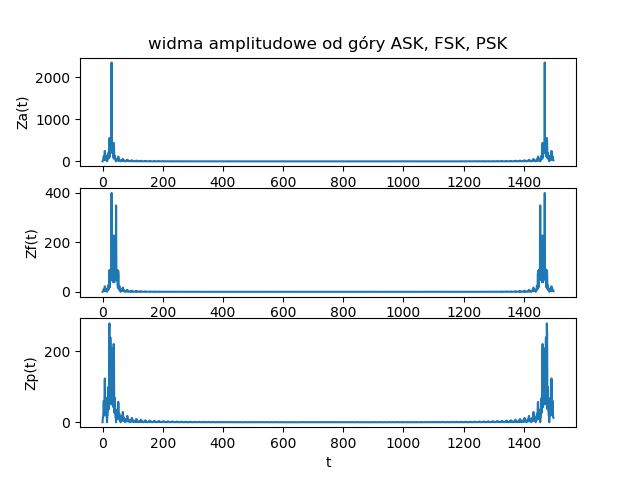
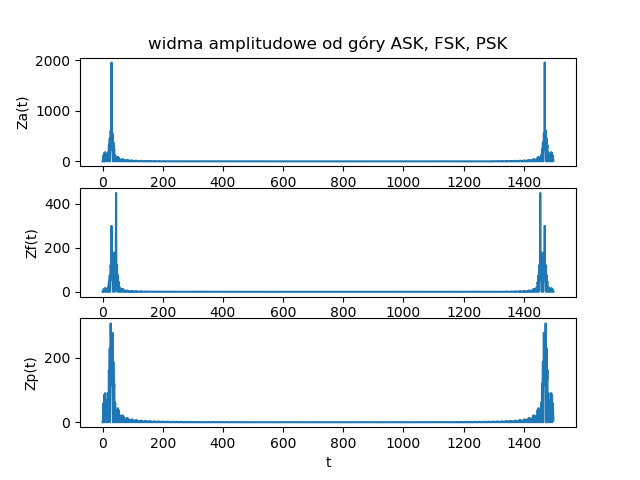
pictures

diff --git a/ptd4.py b/ptd4.py
@@ -1,0 +1,115 @@
+from matplotlib import pyplot as plt
+import numpy as np
+
+A1 = 5
+A2 = 1
+fn = 2
+fs = 100 # musi byc wieksze niz 2x fn
+M = 15 # ilosc bitow do przeslania
+tb = 1 #czas trwania bitu w sekundach
+N = 1
+
+fn1 = (N+1)/tb
+fn2 = (N+2)/tb
+
+
+data_in = np.random.randint(2, size=M) # losowe tworzenie tablicy z 0 lub 1 przy rozmiarze M podawanym wczesniej
+# dlatego wykresy są różne cały czas
+############## ASK
+za = sa =[]
+n = np.arange(M)
+d = np.arange(fs)
+for b in n:
+    for x in d:
+        if data_in[b] == 0:
+            za.append( A1 * np.sin(2 * np.pi * fn * x / fs))
+        else:
+            x = A2 * np.sin(2 * np.pi * fn * x / fs)
+            sa.append(x)
+            za.append(x)
+###################FSK
+zf = []
+sn1 = sn2 = []
+n = np.arange(M)
+d = np.arange(fs)
+for b in n:
+    for x in d:
+        if data_in[b] == 0:
+
+            x1 = np.sin(2 * np.pi * fn1 * x / fs)
+            sn1.append(x1)
+            zf.append(x1)
+        else:
+            x2 = np.sin(2 * np.pi * fn2 * x / fs)
+            sn2.append(x2)
+            zf.append(x2)
+###################PSK
+zp = []
+sp = []
+n = np.arange(M)
+d = np.arange(fs)
+for b in n:
+    for x in d:
+        if data_in[b] == 0:
+            x = np.sin(2 * np.pi * fn * x / fs)
+            sp.append(x)
+            zp.append(x)
+        else:
+            zp.append(np.sin(np.pi + 2 * np.pi * fn * x / fs))
+
+
+# plt.figure(1)
+# plt.subplot(3,1,1)
+# plt.title('zadanie 1 modulacje kolejno od góry: ASK, FSK, PSK')
+# plt.xlabel('t')
+# plt.ylabel('za(t)')
+# plt.plot(za)
+# plt.subplot(3,1,2)
+# plt.xlabel('t')
+# plt.ylabel('zf(t)')
+# plt.plot(zf)
+# plt.subplot(3,1,3)
+# plt.xlabel('t')
+# plt.ylabel('zp(t)')
+# plt.plot(zp)
+# plt.savefig('lab4zad1')
+
+# F1 = np.fft.fft(za)
+# F2 = np.fft.fft(zf)
+# F3 = np.fft.fft(zp)
+# f3 =  plt.figure(2)
+# plt.subplot(3,1,1)
+# plt.title('widma amplitudowe od góry ASK, FSK, PSK')
+# plt.ylabel('Za(t)')
+# plt.xlabel('t')
+# plt.plot(abs(F1))
+# plt.subplot(3,1,2)
+# plt.ylabel('Zf(t)')
+# plt.xlabel('t')
+# plt.plot(abs(F2))
+# plt.subplot(3,1,3)
+# plt.ylabel('Zp(t)')
+# plt.xlabel('t')
+# plt.plot(abs(F3))
+# plt.savefig('lab4zad2widma')
+#
+#
+# M = ('ASK','FSK','PSK')
+# def decyb(signal):
+#     DB = [20 * np.log10(np.abs(signal))]
+#     minim = np.amin(DB)
+#     maxim = np.amax(DB)
+#     w = ((maxim-3.0)-minim)
+#     print('Wartość minimalna: {0}\nwartość maksymalna: {1}\noszacowana szerokość: {2}'.format(minim,maxim,w))
+#
+# print('ASK')
+# decyb(F1)
+# print('FSK')
+# decyb(F2)
+# print('PSK')
+# decyb(F3)
+
+
+
+
+plt.show()

diff --git a/PTD5/ptd5.py b/PTD5/ptd5.py
@@ -1,0 +1,10 @@
+from matplotlib import pyplot as plt
+import numpy as np
+import ptd4
+
+
+#######ASK
+
+x = np.multiply(ptd4.za,ptd4.sa)
+p = np.trapz(x)
+print (x)
